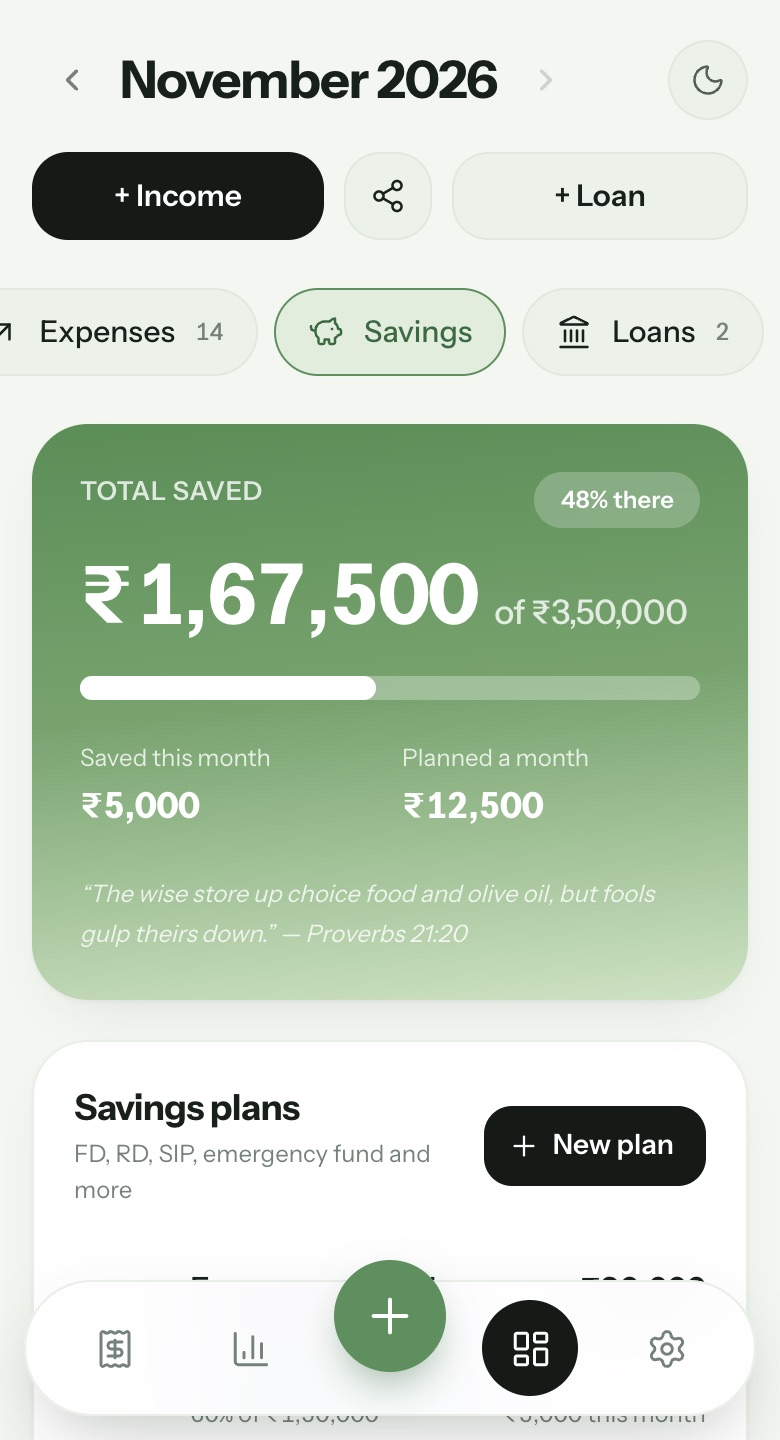
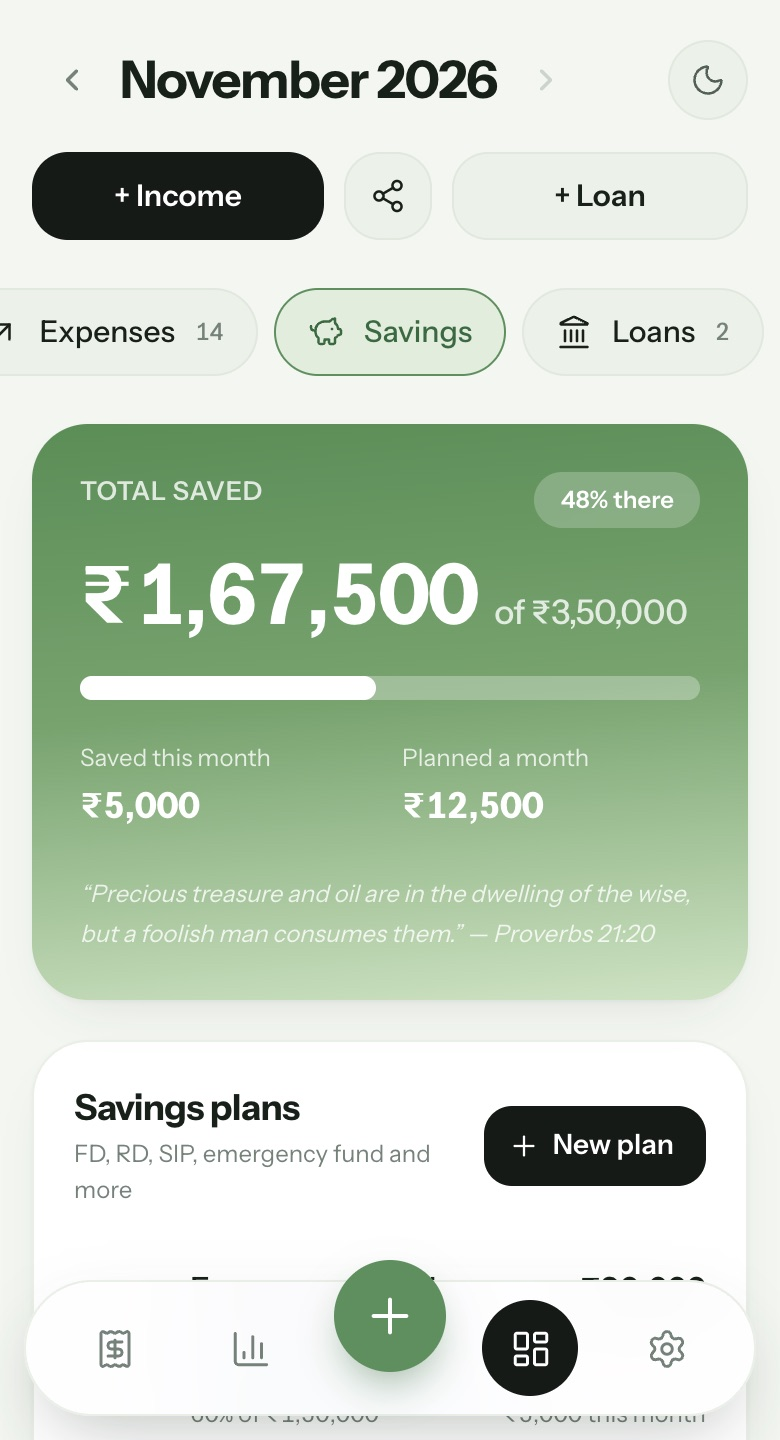
Verses from the Berean Standard Bible (public domain, modern English); NIV notice removed from the landing footer and Settings

Changed region(s): [[0.1231, 0.5938, 0.6462, 0.6562], [0.6462, 0.5938, 0.8615, 0.6562]]

diff --git a/src/lib/scripture.ts b/src/lib/scripture.ts
@@ -1,12 +1,8 @@
 /**
- * Short passages from the New International Version (NIV), in modern English.
- * Scripture quotations taken from The Holy Bible, New International Version® NIV®. Copyright © 1973, 1978, 1984, 2011
- * by Biblica, Inc.™ Used with permission. All rights reserved worldwide. (Fewer than 500 verses, with this notice
- * shown in the app, is within the publisher's permission for quotation.)
+ * Short passages from the Berean Standard Bible (BSB), in modern English. The BSB is in the public domain,
+ * so no notice is needed.
  */
-export const BIBLE_VERSION = 'NIV'
-export const BIBLE_NOTICE =
-  'Scripture quotations taken from The Holy Bible, New International Version® NIV®. Copyright © 1973, 1978, 1984, 2011 by Biblica, Inc.™ Used with permission. All rights reserved worldwide.'
+export const BIBLE_VERSION = 'BSB'
 
 export interface Verse {
   ref: string
@@ -16,67 +12,67 @@ export interface Verse {
 export const VERSES = {
   lords: {
     ref: 'Psalm 24:1',
-    text: "The earth is the LORD’s, and everything in it, the world, and all who live in it.",
+    text: "The earth is the LORD’s, and the fullness thereof, the world and all who dwell therein.",
   },
   glory: {
     ref: '1 Corinthians 10:31',
-    text: "So whether you eat or drink or whatever you do, do it all for the glory of God.",
+    text: "So whether you eat or drink or whatever you do, do it all to the glory of God.",
   },
   provider: {
     ref: 'Deuteronomy 8:18',
-    text: "But remember the LORD your God, for it is he who gives you the ability to produce wealth.",
+    text: "But remember that it is the LORD your God who gives you the power to gain wealth.",
   },
   ofThine: {
     ref: '1 Chronicles 29:14',
-    text: "Everything comes from you, and we have given you only what comes from your hand.",
+    text: "For everything comes from You, and we have given You only what comes from Your hand.",
   },
   firstFruits: {
     ref: 'Proverbs 3:9-10',
-    text: "Honor the LORD with your wealth, with the firstfruits of all your crops; then your barns will be filled to overflowing, and your vats will brim over with new wine.",
+    text: "Honor the LORD with your wealth and with the firstfruits of all your crops; then your barns will be filled with plenty, and your vats will overflow with new wine.",
   },
   cheerful: {
     ref: '2 Corinthians 9:7',
-    text: "Each of you should give what you have decided in your heart to give, not reluctantly or under compulsion, for God loves a cheerful giver.",
+    text: "Each one should give what he has decided in his heart to give, not out of regret or compulsion. For God loves a cheerful giver.",
   },
   blessedToGive: {
     ref: 'Acts 20:35',
-    text: "Remembering the words the Lord Jesus himself said: ‘It is more blessed to give than to receive.’",
+    text: "Remember the words of the Lord Jesus Himself: ‘It is more blessed to give than to receive.’",
   },
   faithful: {
     ref: '1 Corinthians 4:2',
-    text: "Now it is required that those who have been given a trust must prove faithful.",
+    text: "Now it is required of stewards that they be found faithful.",
   },
   fewThings: {
     ref: 'Matthew 25:21',
-    text: "Well done, good and faithful servant! You have been faithful with a few things; I will put you in charge of many things.",
+    text: "Well done, good and faithful servant! You have been faithful in a few things; I will put you in charge of many things.",
   },
   little: {
     ref: 'Luke 16:10',
-    text: "Whoever can be trusted with very little can also be trusted with much.",
+    text: "Whoever is faithful with very little will also be faithful with much.",
   },
   countCost: {
     ref: 'Luke 14:28',
-    text: "Suppose one of you wants to build a tower. Won’t you first sit down and estimate the cost to see if you have enough money to complete it?",
+    text: "Which of you, wishing to build a tower, does not first sit down and count the cost to see if he has the resources to complete it?",
   },
   diligent: {
     ref: 'Proverbs 21:5',
-    text: "The plans of the diligent lead to profit as surely as haste leads to poverty.",
+    text: "The plans of the diligent bring plenty, as surely as haste leads to poverty.",
   },
   knowState: {
     ref: 'Proverbs 27:23',
-    text: "Be sure you know the condition of your flocks, give careful attention to your herds.",
+    text: "Be sure to know the state of your flocks, and pay close attention to your herds.",
   },
   wiseSaves: {
     ref: 'Proverbs 21:20',
-    text: "The wise store up choice food and olive oil, but fools gulp theirs down.",
+    text: "Precious treasure and oil are in the dwelling of the wise, but a foolish man consumes them.",
   },
   oweNoOne: {
     ref: 'Romans 13:8',
-    text: "Let no debt remain outstanding, except the continuing debt to love one another.",
+    text: "Be indebted to no one, except to one another in love.",
   },
   borrower: {
     ref: 'Proverbs 22:7',
-    text: "The rich rule over the poor, and the borrower is slave to the lender.",
+    text: "The rich rule over the poor, and the borrower is servant to the lender.",
   },
   treasure: {
     ref: 'Matthew 6:21',
@@ -84,15 +80,15 @@ export const VERSES = {
   },
   covetousness: {
     ref: 'Luke 12:15',
-    text: "Watch out! Be on your guard against all kinds of greed; life does not consist in an abundance of possessions.",
+    text: "Watch out and guard yourselves against every form of greed, for one’s life does not consist in the abundance of his possessions.",
   },
   contentment: {
     ref: '1 Timothy 6:6-7',
-    text: "But godliness with contentment is great gain. For we brought nothing into the world, and we can take nothing out of it.",
+    text: "Godliness with contentment is great gain. For we brought nothing into the world, so we cannot carry anything out of it.",
   },
   content: {
     ref: 'Hebrews 13:5',
-    text: "Keep your lives free from the love of money and be content with what you have, because God has said, ‘Never will I leave you; never will I forsake you.’",
+    text: "Keep your lives free from the love of money and be content with what you have, for God has said: ‘Never will I leave you, never will I forsake you.’",
   },
 } satisfies Record<string, Verse>
 

diff --git a/welcome/index.html b/welcome/index.html
@@ -337,7 +337,7 @@
       <section class="verse">
         <div class="wrap">
           <blockquote class="reveal">
-            <p>“Whoever can be trusted with very little can also be trusted with much.”</p>
+            <p>“Whoever is faithful with very little will also be faithful with much.”</p>
             <cite>Luke 16:10</cite>
           </blockquote>
         </div>
@@ -401,7 +401,7 @@
     <footer class="foot">
       <div class="wrap foot-in">
         <a class="brand" href="#top"><span class="mark" aria-hidden="true"></span><span>Faithful Portion</span></a>
-        <p class="disclaimer">Screens and features shown are for display and may change before launch.<br />Scripture quotation from the NIV®, © 2011 Biblica, Inc.™ Used with permission.</p>
+        <p class="disclaimer">Screens and features shown are for display and may change before launch.</p>
         <p class="copy">In collaboration with <a href="https://www.youtube.com/@StoriesoftheSaved" target="_blank" rel="noopener">Stories of the Saved</a><br />© <span id="year">2026</span> Faithful Portion</p>
       </div>
     </footer>

diff --git a/src/components/settings/SettingsScreen.tsx b/src/components/settings/SettingsScreen.tsx
@@ -17,7 +17,6 @@ import { BottomSheet } from '../ui/BottomSheet'
 import { dataRepo, settingsRepo } from '../../db/repository'
 import { ensureSeeded, resetSeeding } from '../../db/seed'
 import { downloadFile } from '../../lib/download'
-import { BIBLE_NOTICE } from '../../lib/scripture'
 
 interface SettingsScreenProps {
   onBack: () => void
@@ -137,7 +136,6 @@ export function SettingsScreen({ onBack, onSignedOut, onViewShared }: SettingsSc
       </div>
 
       <p className="text-tertiary text-[12px] text-center">Finance Tracker · v1.0</p>
-      <p className="text-tertiary text-[11px] text-center mt-3 leading-snug">{BIBLE_NOTICE}</p>
 
       <BottomSheet
         open={confirmDelete}
